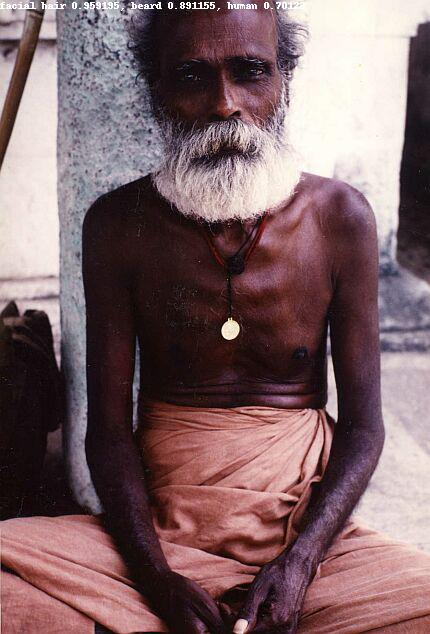
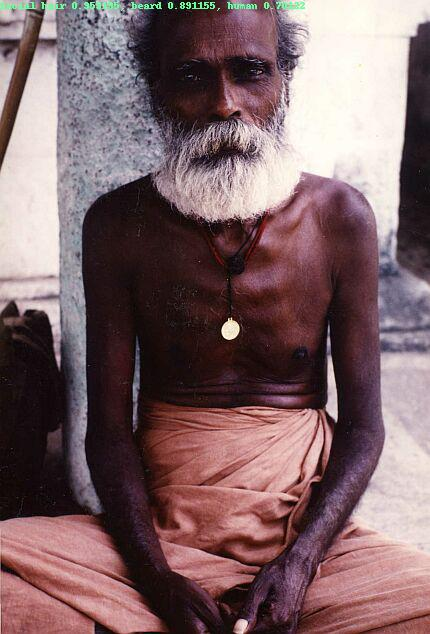
tweaking color, fixing readme

Changed region(s): [[0.0, 0.0, 0.7256, 0.03]]

diff --git a/main.py b/main.py
@@ -48,7 +48,7 @@ draw = ImageDraw.Draw(img)
 # font = ImageFont.truetype(<font-file>, <font-size>)
 #font = ImageFont.truetype("sans-serif.ttf", 16)
 # draw.text((x, y),"Sample Text",(r,g,b))
-draw.text((0, 0),output_text,(255,255,255))
+draw.text((0, 0),output_text,(102, 255, 153))
 img.save('sample-out.jpg')
 
 

diff --git a/README.md b/README.md
@@ -6,7 +6,7 @@ To run this, you will need python2.7 with the following packages: Pillow, MySQLd
 
 You will need to have MySQL and create the database running the database_creation.sql file.
 The database created has the following schema: 
-![Database Schema](Database Scheme.jpg?raw=true "Database Schema")
+![Database Schema](database_schema.jpg?raw=true "Database Schema")
 
 An example image with it's labels superimposed can be seen here:
 ![Example image](sample-out.jpg?raw=true "Example image with label superimposed")
